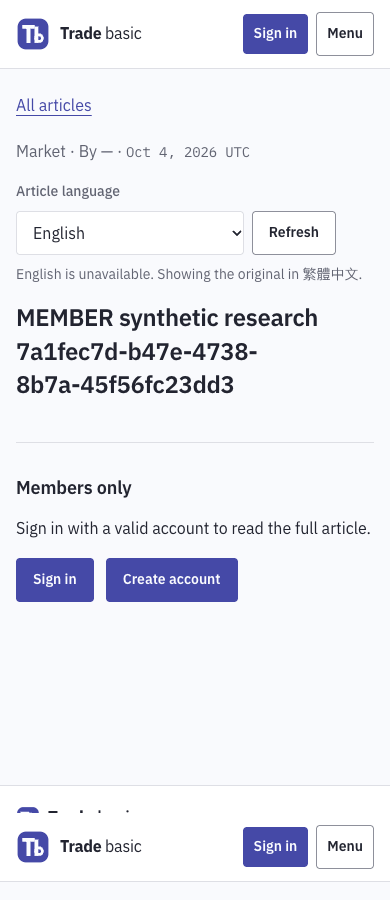
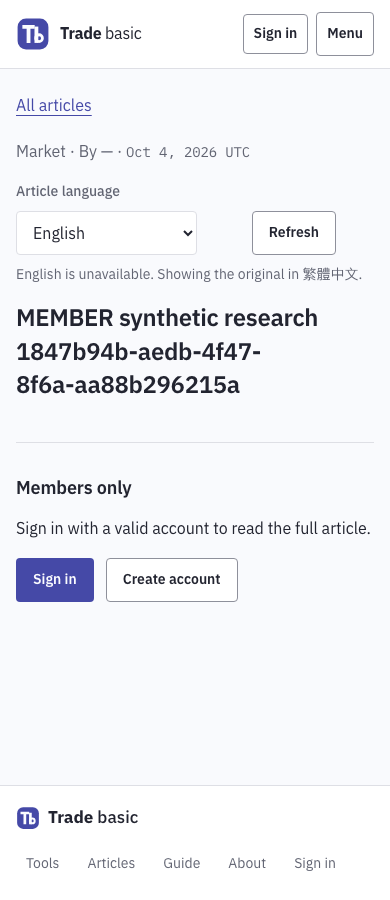
feat(layout): give working surfaces the desktop width they need
Ticket 93. The audit found two opposite defects: the diary record and the
admin article editor left 350–700px unused at desktop widths, while the
library and timeline had no cap at all and stretched across an ultrawide
workspace against the documented 1280px data width.

The diary record now splits at 1100px into the body at its reading
measure and an aside carrying tags, company links, the review pointer and
later evidence. The article editor splits into writing and publication
metadata. Both reuse the grid the authoring surfaces already share. The
library and timeline take the data cap.

The audit also surfaced a design-system defect: the shared button box
rule is element-qualified for links, so a.secondary outranked the
.secondary colour rule and every secondary link rendered as a filled
primary. Secondary links are now surface with a control border, as
DESIGN.md specifies.

diff --git a/apps/web/app/admin-post.tsx b/apps/web/app/admin-post.tsx
@@ -195,7 +195,7 @@ export function AdminPostEditor({ id }: { id?: string }) {
       : admission.reason === 'provider_circuit_open' && admission.resumeAt ? translationAdmissionCopy[locale].edgePaused(admission.resumeAt)
         : translationAdmissionCopy[locale].notQueued
     : null
-  return <section className="editor">
+  return <section className="editor authoring-two-column">
     <header><Link to="/admin/blog">{c.back}</Link><div className="article-editor-title"><h1>{id ? c.editTitle : c.newTitle}</h1><span className="badge">{statusLabel}</span></div><p className="lede">{c.intro}</p></header>
     <FailureNotice failure={failure} id="article-editor-error" />
     {success && <div className="article-save-result" role="status"><span>{successText}</span>{admissionNotice && <p>{admissionNotice}</p>}</div>}
@@ -213,13 +213,13 @@ export function AdminPostEditor({ id }: { id?: string }) {
       sourceDirty={sourceDirty}
       locale={locale}
     />}
-    {preview ? <div className="context-panel"><h2 ref={previewHeading} tabIndex={-1}>{draft.title || c.preview}</h2>{draft.excerpt && <p className="lede">{draft.excerpt}</p>}{draft.coverImage && (coverFailed ? <p role="status">{c.coverUnavailable}</p> : <img className="article-cover-preview" src={draft.coverImage} alt={draft.title || c.cover} onError={() => setCoverFailed(true)} />)}<Markdown>{draft.content || ' '}</Markdown><button type="button" className="secondary" onClick={() => { setPreview(false); requestAnimationFrame(() => previewTrigger.current?.focus()) }}>{c.hidePreview}</button></div> : <form onSubmit={event => { event.preventDefault(); void save(draft.status) }} aria-busy={pending}>
-      <fieldset className="article-editor-fields" disabled={pending}>
+    {preview ? <div className="context-panel"><h2 ref={previewHeading} tabIndex={-1}>{draft.title || c.preview}</h2>{draft.excerpt && <p className="lede">{draft.excerpt}</p>}{draft.coverImage && (coverFailed ? <p role="status">{c.coverUnavailable}</p> : <img className="article-cover-preview" src={draft.coverImage} alt={draft.title || c.cover} onError={() => setCoverFailed(true)} />)}<Markdown>{draft.content || ' '}</Markdown><button type="button" className="secondary" onClick={() => { setPreview(false); requestAnimationFrame(() => previewTrigger.current?.focus()) }}>{c.hidePreview}</button></div> : <form className="authoring-grid article-editor-grid" onSubmit={event => { event.preventDefault(); void save(draft.status) }} aria-busy={pending}>
+      <fieldset className="article-editor-fields authoring-writing" disabled={pending}>
         <label>{c.title}<input className="title-input" value={draft.title} onChange={event => update('title', event.target.value)} maxLength={255} required aria-invalid={invalidField(failure, 'title')} aria-describedby={invalidField(failure, 'title') ? 'article-editor-error' : undefined} /></label>
         <label>{c.content}<textarea value={draft.content} onChange={event => update('content', event.target.value)} rows={18} maxLength={100000} required aria-invalid={invalidField(failure, 'content')} aria-describedby={invalidField(failure, 'content') ? 'article-editor-error' : undefined} /></label>
-        <div className="plan-grid"><label>{c.excerpt}<textarea aria-label={c.excerpt} value={draft.excerpt} onChange={event => update('excerpt', event.target.value)} rows={3} maxLength={1000} aria-invalid={invalidField(failure, 'excerpt')} aria-describedby={invalidField(failure, 'excerpt') ? 'article-editor-error article-editor-teaser-hint' : 'article-editor-teaser-hint'} /><span id="article-editor-teaser-hint" className="muted article-editor-teaser-hint">{c.excerptHint}</span></label><label>{c.cover}<input value={draft.coverImage} onChange={event => update('coverImage', event.target.value)} maxLength={500} aria-invalid={invalidField(failure, 'coverImage')} aria-describedby={invalidField(failure, 'coverImage') ? 'article-editor-error' : undefined} /></label><label>{c.category}<select value={draft.category} onChange={event => update('category', event.target.value)} aria-invalid={invalidField(failure, 'category')} aria-describedby={invalidField(failure, 'category') ? 'article-editor-error' : undefined}><option value="fundamental">{c.fundamental}</option><option value="technical">{c.technical}</option><option value="market">{c.market}</option><option value="strategy">{c.strategy}</option></select></label><label>{c.tags}<input value={draft.tags} onChange={event => update('tags', event.target.value)} placeholder="research, thesis" aria-invalid={invalidField(failure, 'tags')} aria-describedby={invalidField(failure, 'tags') ? 'article-editor-error' : undefined} /></label></div>
-      </fieldset>
-      <footer className="editor-footer"><div className="article-publish-settings"><label htmlFor="article-access">{c.access}<select id="article-access" value={draft.access} disabled={pending} onChange={event => update('access', event.target.value)} aria-describedby="article-access-hint"><option value="PUBLIC">{c.publicAccess}</option><option value="MEMBER">{c.memberAccess}</option></select></label><span id="article-access-hint" className="muted">{draft.access === 'PUBLIC' ? c.publicHint : c.memberHint}</span></div><span>{pending ? c.pending : ''}</span><div className="actions"><button ref={previewTrigger} type="button" className="secondary" disabled={pending} onClick={() => setPreview(true)}>{c.preview}</button>{draft.status === 'PUBLISHED' && <button type="button" className="secondary" disabled={pending || dirty} title={dirty ? c.archiveHint : undefined} onClick={() => void archive()}>{c.archive}</button>}<button type="submit" disabled={pending}>{draft.status === 'DRAFT' ? c.saveDraft : draft.status === 'PUBLISHED' ? c.update : c.saveArchived}</button>{draft.status !== 'PUBLISHED' && <button type="button" className="secondary" disabled={pending} onClick={() => void save('PUBLISHED')}>{draft.status === 'ARCHIVED' ? c.republish : c.publish}</button>}</div></footer>
+        </fieldset>
+      <div className="authoring-aside article-editor-meta"><label>{c.excerpt}<textarea aria-label={c.excerpt} value={draft.excerpt} onChange={event => update('excerpt', event.target.value)} rows={3} maxLength={1000} aria-invalid={invalidField(failure, 'excerpt')} aria-describedby={invalidField(failure, 'excerpt') ? 'article-editor-error article-editor-teaser-hint' : 'article-editor-teaser-hint'} /><span id="article-editor-teaser-hint" className="muted article-editor-teaser-hint">{c.excerptHint}</span></label><label>{c.cover}<input value={draft.coverImage} onChange={event => update('coverImage', event.target.value)} maxLength={500} aria-invalid={invalidField(failure, 'coverImage')} aria-describedby={invalidField(failure, 'coverImage') ? 'article-editor-error' : undefined} /></label><label>{c.category}<select value={draft.category} onChange={event => update('category', event.target.value)} aria-invalid={invalidField(failure, 'category')} aria-describedby={invalidField(failure, 'category') ? 'article-editor-error' : undefined}><option value="fundamental">{c.fundamental}</option><option value="technical">{c.technical}</option><option value="market">{c.market}</option><option value="strategy">{c.strategy}</option></select></label><label>{c.tags}<input value={draft.tags} onChange={event => update('tags', event.target.value)} placeholder="research, thesis" aria-invalid={invalidField(failure, 'tags')} aria-describedby={invalidField(failure, 'tags') ? 'article-editor-error' : undefined} /></label></div>
+      <footer className="editor-footer authoring-footer"><div className="article-publish-settings"><label htmlFor="article-access">{c.access}<select id="article-access" value={draft.access} disabled={pending} onChange={event => update('access', event.target.value)} aria-describedby="article-access-hint"><option value="PUBLIC">{c.publicAccess}</option><option value="MEMBER">{c.memberAccess}</option></select></label><span id="article-access-hint" className="muted">{draft.access === 'PUBLIC' ? c.publicHint : c.memberHint}</span></div><span>{pending ? c.pending : ''}</span><div className="actions"><button ref={previewTrigger} type="button" className="secondary" disabled={pending} onClick={() => setPreview(true)}>{c.preview}</button>{draft.status === 'PUBLISHED' && <button type="button" className="secondary" disabled={pending || dirty} title={dirty ? c.archiveHint : undefined} onClick={() => void archive()}>{c.archive}</button>}<button type="submit" disabled={pending}>{draft.status === 'DRAFT' ? c.saveDraft : draft.status === 'PUBLISHED' ? c.update : c.saveArchived}</button>{draft.status !== 'PUBLISHED' && <button type="button" className="secondary" disabled={pending} onClick={() => void save('PUBLISHED')}>{draft.status === 'ARCHIVED' ? c.republish : c.publish}</button>}</div></footer>
       {draft.status === 'PUBLISHED' && <p className="muted article-archive-hint">{c.archiveHint}</p>}
     </form>}
     <p className="article-public-list"><Link to="/articles">{c.publicList}</Link>{draft.status === 'PUBLISHED' && publicSlug && <><span aria-hidden="true"> · </span><Link to={`/articles/${encodeURIComponent(publicSlug)}`}>{c.view}</Link></>}</p>

diff --git a/apps/web/app/routes/diary.tsx b/apps/web/app/routes/diary.tsx
@@ -110,7 +110,7 @@ export default function DiaryPage() {
   const diaryPath = `/diaries/${id ?? ''}`;
   const reviewSchedulePath = `${diaryPath}/edit?returnTo=${encodeURIComponent(diaryPath)}#review-schedule`;
 
-  return <article className="diary-reading">
+  return <article className="diary-reading diary-record">
     {pending ? <p role="status">{t('loading')}</p> : error ? <>
       <h1>{t('readTitle')}</h1>
       <FailureNotice failure={error} />
@@ -128,9 +128,10 @@ export default function DiaryPage() {
           <Link className="button secondary" to={`/diaries/${id}/edit`}>{labels.edit}</Link>
         </div>
         {diary.createdVia && diary.createdVia !== 'WEB' && <p data-testid="diary-source">{diary.createdVia === 'API_KEY' ? (locale === 'en' ? 'Created via API key' : locale === 'zh-CN' ? '通过 API 密钥创建' : '透過 API 金鑰建立') : 'Telegram'}{diary.createdByLabel ? ` · ${diary.createdByLabel}` : ''}</p>}
-        <ul className="diary-tags" aria-label={labels.tags}>{diary.tags.map(tag => <li key={tag}>{tag}</li>)}</ul>
-        {Boolean(diary.stockSymbols?.length) && <div className="diary-companies"><h2>{companyContextCopy[locale].label}</h2><ul>{diary.stockSymbols?.map(symbol => <li key={symbol}><Link to={`/stocks/${encodeURIComponent(symbol)}`}>{symbol}</Link></li>)}</ul></div>}
       </header>
+      {/* The record itself, in its recorded order; what is attached to it and
+          what to do next move beside it on a wide screen. */}
+      <div className="diary-reading-body">
       <Markdown>{diary.content ?? ''}</Markdown>
       <section className="original-reasoning" aria-labelledby="diary-original-judgment">
         <OriginalJudgment
@@ -142,8 +143,13 @@ export default function DiaryPage() {
         />
       </section>
       {Boolean(diary.transactions?.length) && <section className="ledger-reading"><h2>{ledgerCopy[locale].title}</h2>{diary.transactions?.map(transaction => <section key={transaction.id}><h3>{transaction.symbol} · {transaction.type === 'BUY' ? ledgerCopy[locale].buy : ledgerCopy[locale].sell}</h3><dl>{(['quantity', 'price', 'tradeDate', 'strategy', 'emotion', 'notes'] as const).map(field => <div key={field}><dt>{ledgerCopy[locale][field]}</dt><dd>{field === 'tradeDate' ? new Intl.DateTimeFormat(locale, { dateStyle: 'medium', timeStyle: 'short', timeZoneName: undefined }).format(new Date(transaction.tradeDate)) + ' · ' + Intl.DateTimeFormat().resolvedOptions().timeZone : field === 'emotion' && transaction.emotion && Object.hasOwn(ledgerEmotions[locale], transaction.emotion) ? ledgerEmotions[locale][transaction.emotion as keyof typeof ledgerEmotions.en] : transaction[field] || '—'}</dd></div>)}</dl></section>)}<Link className="inline-link" to="/stocks">{ledgerCopy[locale].view}</Link></section>}
+      </div>
+      <aside className="diary-reading-aside">
+      <ul className="diary-tags" aria-label={labels.tags}>{diary.tags.map(tag => <li key={tag}>{tag}</li>)}</ul>
+      {Boolean(diary.stockSymbols?.length) && <div className="diary-companies"><h2>{companyContextCopy[locale].label}</h2><ul>{diary.stockSymbols?.map(symbol => <li key={symbol}><Link to={`/stocks/${encodeURIComponent(symbol)}`}>{symbol}</Link></li>)}</ul></div>}
       <section className="original-reasoning diary-review-summary"><h2>{reviewLabels.review}</h2>{diary.reviewStatus === 'reviewed' ? <><p>{reviewLabels.reviewed}{diary.reviewOutcome ? ` · ${reviewLabels[diary.reviewOutcome]}` : ''}</p><Link className="button secondary" to={`/diaries/${id}/review`}>{reviewLabels.viewReview}</Link></> : reviewDue ? <><p>{reviewOverdue ? <strong>{reviewLabels.dueNow}</strong> : `${reviewLabels.duePrefix} `}<time dateTime={reviewDue.toISOString()}>{reviewDueText}</time></p><Link className={reviewOverdue ? 'button' : 'button secondary'} to={`/diaries/${id}/review`}>{reviewOverdue ? reviewLabels.reviewNow : reviewLabels.review}</Link></> : <><p>{reviewLabels.noneState}</p><Link className="button secondary" to={reviewSchedulePath}>{reviewLabels.schedule}</Link></>}</section>
       <Evidence key={diary.id} collapsed source={{ title: diary.title, path: diaryPath }} />
+      </aside>
       <footer><div className="diary-actions">{companyPath && captureReturn && <Link className="button secondary" data-testid="capture-return" to={companyPath}>{locale === 'en' ? `Return to ${captureReturn.symbol} research` : `返回 ${captureReturn.symbol} 研究`}</Link>}<button type="button" className="danger-button" onClick={() => dialog.current?.showModal()}>{labels.remove}</button><Link className="button secondary" to="/diaries/new">{t('write')}</Link></div></footer>
       <dialog ref={dialog} className="delete-dialog" aria-labelledby="delete-title"><h2 id="delete-title">{labels.confirm}</h2><p>{diary.title}</p><div className="actions"><button className="secondary" autoFocus onClick={() => dialog.current?.close()} disabled={deleting}>{labels.cancel}</button><button className="danger-button" disabled={deleting} onClick={() => void remove()}>{deleting ? t('pending') : labels.remove}</button></div></dialog>
     </>}

diff --git a/tests/e2e/workspace-width.spec.ts b/tests/e2e/workspace-width.spec.ts
@@ -1,0 +1,77 @@
+import { randomUUID } from 'node:crypto';
+import { test, expect, selectAccountLocale, selectLocale } from '../support/e2e';
+
+const adminEmail = 'etf-admin@example.test';
+const adminPassword = 'synthetic-etf-admin-password';
+
+/**
+ * Ticket 93. Two failures, not one: pages that left a wide empty region on the
+ * right at 1440 (the diary record, both authoring paths, the article editor),
+ * and pages with no cap at all that stretched across an ultrawide workspace
+ * (the library and the timeline). This measures both ends.
+ */
+async function usedWidth(page: import('@playwright/test').Page) {
+ return page.evaluate(() => {
+  const main = document.querySelector('main');
+  if (!main) return { main: 0, used: 0 };
+  const box = main.getBoundingClientRect();
+  let right = box.left;
+  for (const node of main.querySelectorAll('*')) {
+   const rect = node.getBoundingClientRect();
+   if (rect.width < 2 || rect.height < 2) continue;
+   const style = getComputedStyle(node);
+   if (style.visibility === 'hidden' || style.display === 'none') continue;
+   if (rect.right > right && rect.right <= box.right + 1) right = rect.right;
+  }
+  return { main: Math.round(box.width), used: Math.round(right - box.left) };
+ });
+}
+
+test('workspace pages use the desktop width they are given and stop at the data-page cap', async ({ page }) => {
+ const email = `workspace-width-${randomUUID()}@example.test`, password = 'synthetic-width-password';
+ await page.request.post('/api/auth/register', { data: { email, password } });
+ await page.goto('/login?returnTo=%2Fdiaries'); await selectLocale(page, 'en');
+ await page.getByLabel('Email', { exact: true }).fill(email); await page.getByLabel('Password', { exact: true }).fill(password);
+ await page.getByRole('button', { name: 'Sign in', exact: true }).click(); await expect(page).toHaveURL(/\/diaries$/);
+ await selectAccountLocale(page, 'en');
+ const csrf = (await page.context().cookies()).find(cookie => cookie.name === 'csrf-token')!.value;
+ const created = await page.request.post('/api/diaries', { headers: { 'x-csrf-token': csrf }, data: { date: '2026-05-04', title: 'Workspace width diary', content: 'Recorded reasoning.\n\n'.repeat(12), tags: ['width', 'audit'], thesis: 'The thesis at the time.', stockSymbols: ['NVDA'] } });
+ expect(created.status()).toBe(201);
+ const diary = await created.json() as { id: string };
+ const routes = ['/diaries', `/diaries/${diary.id}`, `/diaries/${diary.id}/edit`, '/diaries/new', '/timeline'];
+
+ await page.setViewportSize({ width: 1440, height: 900 });
+ for (const route of routes) {
+  await page.goto(route);
+  await expect(page.locator('main h1')).toBeVisible();
+  const { main, used } = await usedWidth(page);
+  expect(main - used, `${route} leaves unused width at 1440`).toBeLessThanOrEqual(64);
+ }
+
+ // 1920: every workspace page stops at the documented 1280px data width.
+ await page.setViewportSize({ width: 1920, height: 900 });
+ for (const route of routes) {
+  await page.goto(route);
+  await expect(page.locator('main h1')).toBeVisible();
+  const { used } = await usedWidth(page);
+  expect(used, `${route} exceeds the data-page cap at 1920`).toBeLessThanOrEqual(1312);
+ }
+
+ // Evidence: the record page at wide desktop, standard desktop and mobile.
+ for (const [width, height] of [[1920, 1080], [1440, 900], [390, 844]] as const) {
+  await page.setViewportSize({ width, height });
+  await page.goto(`/diaries/${diary.id}`);
+  await expect(page.locator('main h1')).toBeVisible();
+  await page.screenshot({ path: `docs/design/evidence/workspace-width/diary-record-${width}.png`, fullPage: true });
+  expect(await page.evaluate(() => document.documentElement.scrollWidth <= innerWidth)).toBe(true);
+ }
+
+ await page.request.post('/api/auth/login', { data: { email: adminEmail, password: adminPassword } });
+ for (const [width, height] of [[1920, 1080], [1440, 900], [390, 844]] as const) {
+  await page.setViewportSize({ width, height });
+  await page.goto('/admin/blog/new');
+  await expect(page.locator('.article-editor-fields textarea').first()).toBeVisible();
+  await page.screenshot({ path: `docs/design/evidence/workspace-width/article-editor-${width}.png`, fullPage: true });
+  expect(await page.evaluate(() => document.documentElement.scrollWidth <= innerWidth)).toBe(true);
+ }
+});

diff --git a/apps/web/app/styles.css b/apps/web/app/styles.css
@@ -255,20 +255,25 @@ button:active,
 }
 
 /* Secondary: the page's own surface, bounded by a control-contrast edge.
-   No shadow — a button is not a floating object. */
-.secondary {
+   No shadow — a button is not a floating object. `a.secondary` repeats the
+   element to outrank the shared box rule above, which is element-qualified for
+   links; without it every secondary link rendered as a filled primary. */
+.secondary,
+a.secondary {
   border-color: var(--control);
   background: var(--surface);
   color: var(--text);
 }
 
-.secondary:hover {
+.secondary:hover,
+a.secondary:hover {
   border-color: var(--text);
   background: var(--surface-sunken);
   color: var(--text);
 }
 
-.secondary:active {
+.secondary:active,
+a.secondary:active {
   background: var(--selected);
 }
 
@@ -1453,6 +1458,24 @@ main:focus-visible {
   margin: 0;
   padding: 0;
   border: 0;
+}
+
+/* The article editor is a writing surface: the body takes the reading measure
+   and the publication metadata sits beside it once the workspace allows. */
+.article-editor-meta {
+  display: grid;
+  gap: var(--space-5);
+  align-content: start;
+  min-width: 0;
+}
+
+.article-editor-meta > label {
+  min-width: 0;
+}
+
+.article-editor-fields textarea {
+  width: 100%;
+  box-sizing: border-box;
 }
 
 .article-save-result {

diff --git a/apps/web/app/routes/diary-reading.css b/apps/web/app/routes/diary-reading.css
@@ -1,3 +1,37 @@
+/* A recorded diary: the body keeps the reading measure, and what is attached to
+   it — tags, companies, the review pointer, later evidence — moves beside the
+   body once the workspace is wide enough to hold both. */
+@media (min-width: 1100px) {
+  .diary-record {
+    display: grid;
+    max-width: 1280px;
+    grid-template-columns: minmax(0, 72ch) minmax(260px, 1fr);
+    grid-template-areas:
+      'header aside'
+      'body   aside'
+      'footer aside';
+    column-gap: var(--space-10);
+    align-items: start;
+  }
+
+  .diary-record > header { grid-area: header; }
+  .diary-record > .diary-reading-body { grid-area: body; }
+  .diary-record > .diary-reading-aside { grid-area: aside; }
+  .diary-record > footer { grid-area: footer; }
+
+  .diary-record > .diary-reading-aside > :first-child {
+    margin-top: 0;
+  }
+}
+
+.diary-reading-body > :first-child {
+  margin-top: 0;
+}
+
+.diary-reading-aside {
+  min-width: 0;
+}
+
 .diary-reading-title-row {
   display: flex;
   align-items: flex-start;

diff --git a/apps/web/app/timeline.css b/apps/web/app/timeline.css
@@ -1,6 +1,8 @@
+/* A data page, so it caps at the documented 1280px instead of stretching
+   across an ultrawide workspace. */
 .diary-timeline {
   width: 100%;
-  max-width: none;
+  max-width: 1280px;
 }
 
 .diary-timeline > .page-heading {

diff --git a/apps/web/app/diary-list.css b/apps/web/app/diary-list.css
@@ -1,6 +1,8 @@
+/* A data page, so it caps at the documented 1280px instead of stretching
+   across an ultrawide workspace. */
 .diary-library {
   width: 100%;
-  max-width: none;
+  max-width: 1280px;
 }
 
 .diary-library .page-heading {

diff --git a/.scratch/diary-v3-rebuild/issues/93-desktop-workspace-space-utilization.md b/.scratch/diary-v3-rebuild/issues/93-desktop-workspace-space-utilization.md
@@ -2,8 +2,8 @@
 
 # [93] Use desktop workspace width more effectively
 
-Status: needs-triage
-Execution: todo
+Status: accepted
+Execution: done
 Published: 2026-10-04
 
 Category: enhancement
@@ -24,20 +24,69 @@ Before UI implementation, define the layout direction and target-page list again
 
 ## Provisional acceptance criteria
 
-- [ ] The audit records the affected page routes, the desktop viewport(s) where the unused area is material, and whether each page should expand, use a different layout, or remain intentionally bounded.
-- [ ] Every `/diaries/*` route is accounted for in the audit; any route kept narrow has a task-based readability rationale.
-- [ ] The article editor at `/admin/blog/:id/edit` is included in the design decision and has a clear desktop layout rationale.
-- [ ] Each included route has a deliberate desktop layout and a separate mobile layout direction, with the tablet breakpoint behavior documented between them.
-- [ ] Working surfaces use available desktop width where doing so improves scanning or editing. Long-form article and Markdown reading measures remain bounded; controls and prose are not stretched solely to occupy space.
-- [ ] Desktop and mobile layouts preserve the same product capabilities while using viewport-appropriate hierarchy, grouping, and control placement; multi-column layouts reflow at the agreed tablet breakpoint.
-- [ ] Existing behavior remains unchanged. The updated pages remain usable in all three locales, light/dark themes, keyboard navigation, and 200% zoom, without clipping or horizontal page overflow.
-- [ ] Before/after browser captures separately cover the agreed wide-desktop and standard-desktop sizes and the mobile viewport for each changed page, with the visual rationale recorded against DESIGN.md.
+- [x] The audit records the affected page routes, the desktop viewport(s) where the unused area is material, and whether each page should expand, use a different layout, or remain intentionally bounded.
+- [x] Every `/diaries/*` route is accounted for in the audit; any route kept narrow has a task-based readability rationale.
+- [x] The article editor at `/admin/blog/:id/edit` is included in the design decision and has a clear desktop layout rationale.
+- [x] Each included route has a deliberate desktop layout and a separate mobile layout direction, with the tablet breakpoint behavior documented between them.
+- [x] Working surfaces use available desktop width where doing so improves scanning or editing. Long-form article and Markdown reading measures remain bounded; controls and prose are not stretched solely to occupy space.
+- [x] Desktop and mobile layouts preserve the same product capabilities while using viewport-appropriate hierarchy, grouping, and control placement; multi-column layouts reflow at the agreed tablet breakpoint.
+- [x] Existing behavior remains unchanged. The updated pages remain usable in all three locales, light/dark themes, keyboard navigation, and 200% zoom, without clipping or horizontal page overflow.
+- [x] Before/after browser captures separately cover the agreed wide-desktop and standard-desktop sizes and the mobile viewport for each changed page, with the visual rationale recorded against DESIGN.md.
 
-## Open triage decisions
+## Audit — 2026-10-04
 
-- Should the `/diaries/*` routes be delivered together or split into focused slices after the audit?
-- Which wide-screen viewport should define the expected desktop use of space?
-- Where should additional width create a second working region, and where should content remain bounded for legibility?
+Measured `main`'s width against the rightmost rendered content on every workspace route at
+1440px and 1920px, before any change:
+
+| Route | 1440 unused | 1920 unused | Verdict |
+|---|---|---|---|
+| `/diaries/:id` (record) | 501px | 717px | **Expand** — body at 72ch, everything attached to it beside |
+| `/admin/blog/:id/edit` | ~344px (880px `.editor` cap) | ~560px | **Expand** — writing left, publication metadata right |
+| `/diaries/new`, `/diaries/:id/edit` | 344px | 560px | **Expanded by [97](97-quick-composer-redesign.md)** |
+| `/diaries/quick` | 344px | 560px | **Expanded by [97](97-quick-composer-redesign.md)** |
+| `/calendar` | 32px | 392px | **Bounded by [99](99-calendar-redesign.md)** — a month is a dense object |
+| `/diaries` (library) | 32px | **0 — uncapped** | **Cap** — a data page that stretched to any viewport |
+| `/timeline` | 32px | **0 — uncapped** | **Cap** — same |
+| `/reviews` | 32px | 208px | Keep — already the 1280px data page |
+| `/diaries/:id/review` | 72px | 288px | Keep bounded at 1120px — it already splits original and reflection into two columns at 900px, and the reflection is prose |
+
+The report was half right: four routes wasted width, and two had the opposite defect — no cap at
+all, so they stretched across an ultrawide workspace against DESIGN.md's 1280px data width.
+
+The audit also surfaced a design-system defect: the shared button box rule is element-qualified
+for links (`a.secondary`), which outranked the later `.secondary` colour rule, so **every
+secondary link in the app rendered as a filled primary**. Two filled actions competed on the
+diary record. Fixed in `styles.css` by repeating the element in the secondary selector.
+
+## Triage decisions — ruled 2026-10-04 during implementation
+
+- **Delivered together.** The three authoring surfaces already shared a layout from
+  [97](97-quick-composer-redesign.md); the record page and the article editor reuse the same
+  grid, so splitting would have meant writing it three more times.
+- **1440px defines the expectation, 1920px defines the cap.** 1440 is the standard workspace
+  width this product is used at; above the 1280px data cap, extra viewport becomes margin rather
+  than content, which is the documented rule.
+- **Width becomes a second region only where a task has a primary surface and supporting
+  controls.** Prose, calendars and queues stay bounded: the diary body, the article body and the
+  review reflection all keep the 72ch measure inside the wider page.
+
+## Execution record — 2026-10-04
+
+The 1100px two-column rule is documented in DESIGN.md's Layout section and shared through
+`authoring.css`. Changes in this ticket: the diary record splits into body and aside (tags,
+company links, the review pointer, later evidence); the admin article editor splits into writing
+and publication metadata; the library and timeline gain the 1280px data cap; secondary links stop
+rendering as filled primaries. The authoring surfaces and the calendar were delivered by
+[97](97-quick-composer-redesign.md) and [99](99-calendar-redesign.md) under this ruling.
+
+Tablet (768–1099px) is the stacked single column in source order; mobile keeps that order with
+touch sizing and the sticky save bar on the authoring paths.
+
+Verification: `tests/e2e/workspace-width.spec.ts` asserts that no audited route leaves more than
+64px unused at 1440 and that none exceeds the 1280px cap at 1920, and captures evidence at 1920,
+1440 and 390 for the record page and the article editor
+(`docs/design/evidence/workspace-width/`). `posts`, `article-publish-feedback`, `overview`,
+`daily-workspace`, `article-access`, `diary-discovery` and `diary-detail-review` pass.
 
 ## Related work
 

diff --git a/DESIGN.md b/DESIGN.md
@@ -234,6 +234,8 @@ Stacking order is a semantic scale — `z-base`, `z-sticky`, `z-nav`, `z-dropdow
 
 Desktop shell: 216px sticky sidebar (180px below 1099px) + main content. Main content owns the page gutter: 16px phones, 24px tablets, 32px at 1200px+. Data pages cap at 1280px; reading and editor pages use ~880px or 72ch; the two-column preview collapses below 1099px.
 
+**Working surfaces split at 1100px.** A page whose task has a primary surface and supporting controls — both authoring paths, the full editor, the article editor, the diary record — becomes two columns at 1100px and up: the primary column holds the writing or the record at the 72ch measure, the secondary column holds what configures or accompanies it, and the page cap rises to the 1280px data width. Below 1100px the same regions stack in source order, which is also the tablet layout; below 768px they keep the stacked order with touch-sized controls and the sticky save bar. Long-form reading keeps its bounded measure in both layouts — the column splits, the prose does not widen.
+
 Sidebar navigation is grouped by a hairline above each group plus a sentence-case muted label — not a tracked all-caps eyebrow. Every item uses the single `icons.tsx` family (24px grid, 1.7 stroke, `currentColor`). The current item is marked by the ink selection fill with the label and icon in the action colour, in the same box and the same padding as an inactive item, so the states do not reflow. Below 768px the sidebar becomes a sticky top app bar (safe-area aware) plus a fixed four-column bottom bar: Diary library, Timeline, Calendar, Write diary. The drawer (Menu dialog) carries the remaining links, Quick Diary, and labeled preference selects; it reuses the private menu test ids so preference helpers work in both shells.
 
 Public shell: sticky single-row surface header (brand + wordmark, nav, compact preference selects, session actions) and a shared footer with real links only. Below 1024px it switches to compact mode — brand, Sign in, Menu trigger — and moves everything else into an accessible drawer dialog; the row never wraps. Tools use the public shell for guests and the workspace shell for signed-in people; `/tools` and `/tools/*` always render inside the 1280px wrapper.
